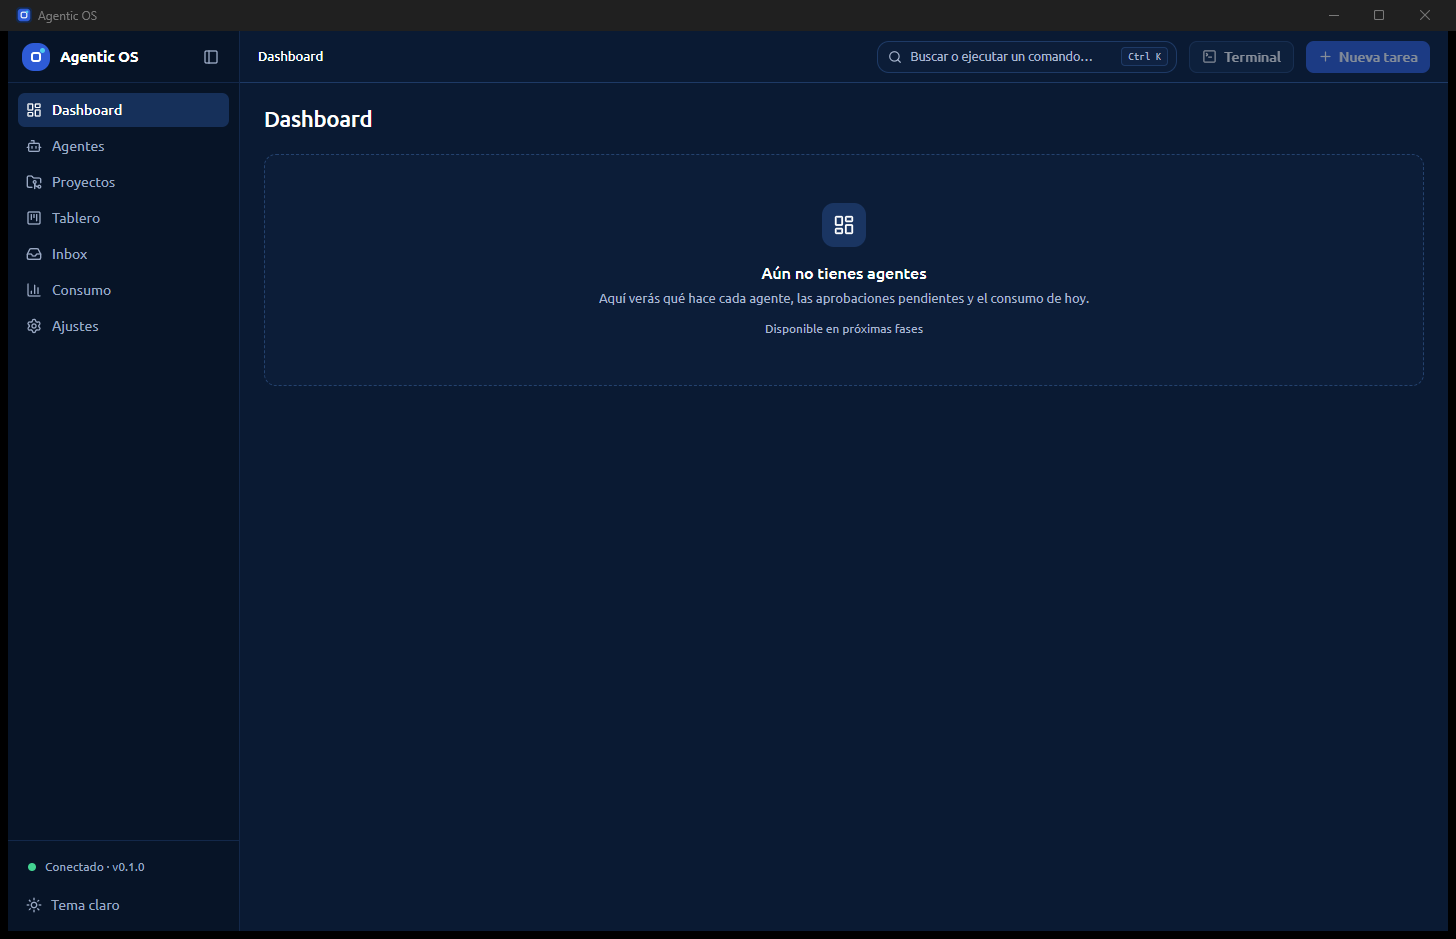
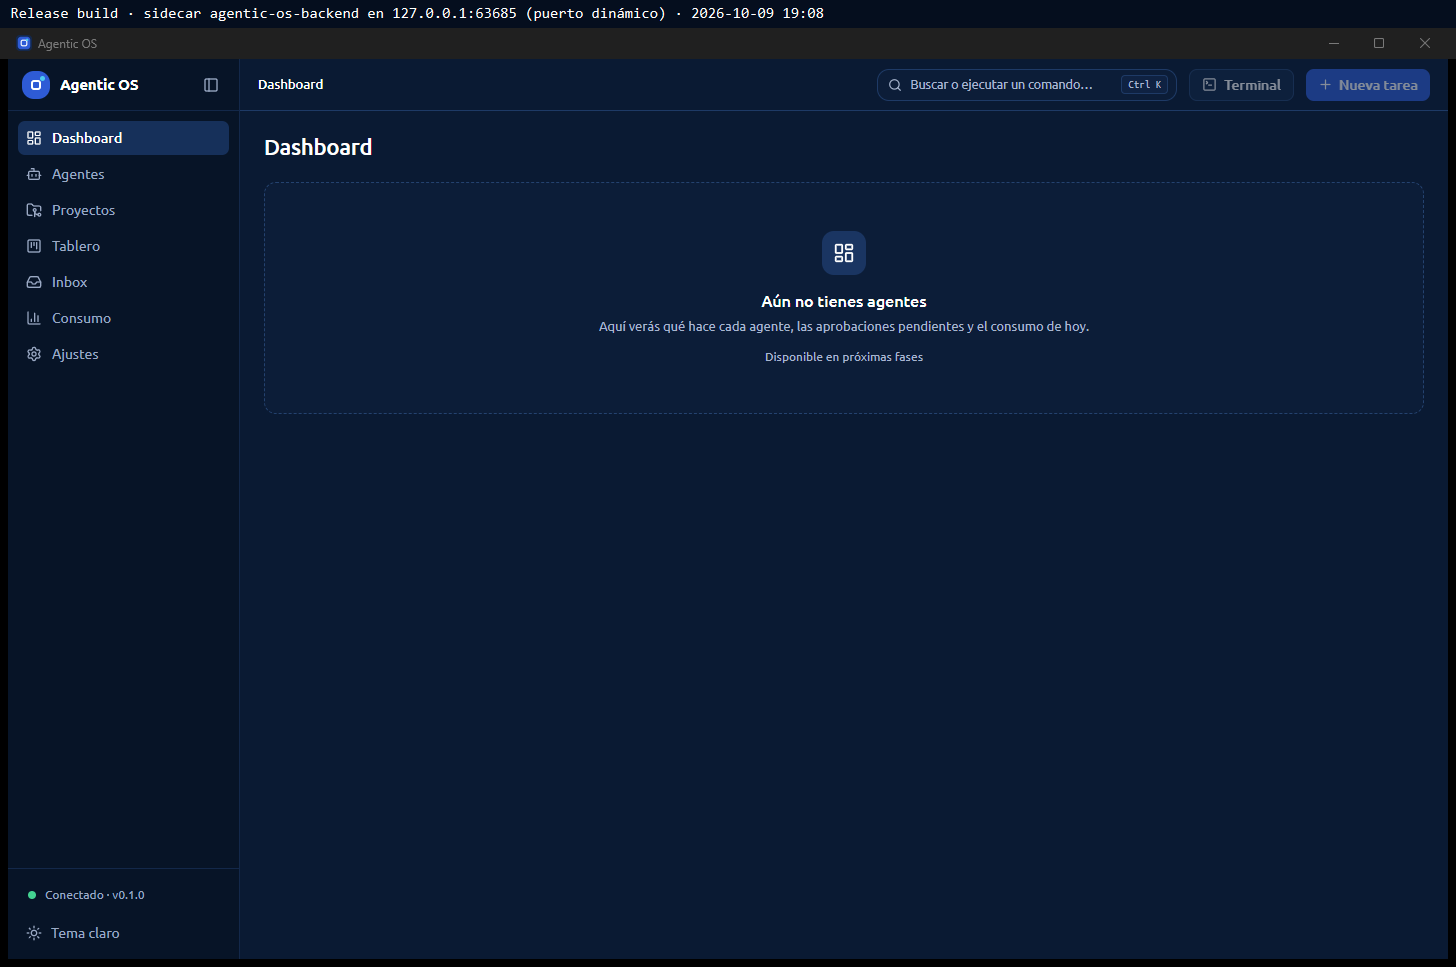
docs(phase-00): validation with code review resolution and new CA6 evidence; update ADR 0002

diff --git a/docs/phases/00-fundaciones/validacion.md b/docs/phases/00-fundaciones/validacion.md
@@ -1,20 +1,20 @@
 # Fase 00: Fundaciones · Validación
 
 - **Rama**: `phase/00-fundaciones`
-- **Fecha**: 2026-10-08
+- **Fecha**: 2026-10-08 · actualizada 2026-10-09 tras el code review
 
 ## Tests automáticos
 `scripts/check.ps1` (lint + todos los tests):
 
 ```
-Paso                            Resultado
-----                            ---------
+Step                            Result
+----                            ------
 Lint backend (ruff)             OK
 Lint frontend (eslint+prettier) OK
 Lint desktop (rustfmt)          OK
-Tests backend (pytest)          OK   8 passed
-Tests frontend (vitest)         OK   12 passed (4 files)
-Tests desktop (cargo test)      OK   2 passed
+Tests backend (pytest)          OK   10 passed
+Tests frontend (vitest)         OK   14 passed (4 files)
+Tests desktop (cargo test)      OK   3 passed
 ```
 
 ## Criterios de aceptación
@@ -25,7 +25,7 @@ Tests desktop (cargo test)      OK   2 passed
 | CA3 | Barra lateral con 7 secciones, navegación y textos desde `es.json` | ✅ | `AppSidebar.test.tsx` (7 enlaces con textos de `es.json`, navegación, ítem activo, ruta desconocida → Dashboard). ESLint `i18next/no-literal-string` (texto JSX) en verde |
 | CA4 | Tema claro/oscuro (navy por defecto), se recuerda; fuente Ubuntu en local | ✅ | `ThemeProvider.test.tsx` (navy por defecto, cambio a claro, persistencia, restauración). Fuentes con `@fontsource`, sin peticiones a Google Fonts. Comparada con la captura `01a` del diseño. El tema claro está cubierto por tests; falta la revisión visual |
 | CA5 | `npm run dev:desktop` abre la ventana Tauri conectada | ✅ | [`evidencias/ca5-dev-desktop.png`](evidencias/ca5-dev-desktop.png): ventana «Agentic OS» con «Conectado · v0.1.0» |
-| CA6 | `npm run build:desktop` → el ejecutable arranca el sidecar en un puerto libre, conecta, y lo para al cerrar sin huérfanos | ✅ | Instalador NSIS `Agentic OS_0.1.0_x64-setup.exe` (17,3 MB); sidecar de 14,4 MB, listo en 1,12 s. [`evidencias/ca6-release-sidecar.png`](evidencias/ca6-release-sidecar.png): «Conectado» con puerto dinámico (61868). Cierre normal → 0 procesos del backend en 1,6 s; Tauri matado a la fuerza → 0 en 1,9 s. Tests `test_main.py` (handshake, watchdog, pipes rotos) y `cargo test` (`parse_ready`) |
+| CA6 | `npm run build:desktop` → el ejecutable arranca el sidecar en un puerto libre, conecta, y lo para al cerrar sin huérfanos | ✅ | Instalador NSIS `Agentic OS_0.1.0_x64-setup.exe` (17,3 MB); sidecar de 14,4 MB, listo en 1,12 s. [`evidencias/ca6-release-sidecar.png`](evidencias/ca6-release-sidecar.png): build release con «Conectado» y el sidecar en 127.0.0.1:63685. [`evidencias/ca6-release.log`](evidencias/ca6-release.log): árbol de procesos (Tauri → bootloader → Python con `--parent-pid`), puerto dinámico y health. Cierre normal → 0 procesos del backend en 1,7 s; Tauri terminado a la fuerza → 0 en 1,7 s; en ambos casos la carpeta `_MEI*` de `%TEMP%` desaparece y el log de uvicorn registra `Application shutdown complete`. Tests `test_main.py` (handshake, watchdog, pipes rotos), `test_logging.py` y `cargo test` |
 | CA7 | `check` ejecuta ruff, ESLint, Prettier, pytest y vitest en verde | ✅ | Salida de arriba; también incluye rustfmt y cargo test |
 | CA8 | README con requisitos y comandos; roadmap actualizado | ✅ | [`README.md`](../../../README.md), [`roadmap.md`](../../roadmap.md) |
 
@@ -34,10 +34,20 @@ Tests desktop (cargo test)      OK   2 passed
 
 | Hallazgo | Severidad | Resolución |
 |---|---|---|
-| _(pendiente del resultado)_ | | |
+| Tauri mataba el bootloader de PyInstaller y quedaban carpetas `_MEI*` en `%TEMP%` (confirmado: 3 restos) | Alta | **Corregido**: Tauri ya no mata el sidecar; el watchdog lo cierra de forma ordenada y el bootloader limpia (verificado en CA6) |
+| Si el sidecar no arrancaba, `setup` fallaba y la app release se cerraba sin mensaje | Alta | **Corregido**: el error se guarda y `backend_url` lo devuelve a la UI; test `failure_clears_url_and_is_not_starting` |
+| La UI reintentaba 30 s también ante errores definitivos | Media | **Corregido**: solo reintenta con `starting`; test `fails fast on a permanent backend error`. El reinicio automático del sidecar queda para la fase 08 |
+| La captura de CA6 era idéntica byte a byte a la de CA5 | Media | **Corregido**: captura nueva de la build release con el puerto anotado, más `ca6-release.log` |
+| El stderr del sidecar se descartaba y no había logs en la app empaquetada | Media | **Corregido**: logs rotativos en `%APPDATA%\AgenticOS\logs\backend.log`; structlog y uvicorn comparten handlers; test `test_logging.py` |
+| El health check no tenía timeout: un backend colgado seguía apareciendo como «Conectado» | Media | **Corregido**: `AbortSignal.timeout(4000)`; test `treats a backend that never answers as disconnected` |
+| El watchdog sondeaba por PID: si el PID se reutilizaba, el backend quedaba huérfano | Media | **Corregido**: en Windows abre el handle del padre al arrancar y espera con `WaitForSingleObject` (inmediato, sin carrera) |
+| Dependencia npm `cn` de terceros | Media | **Corregido**, pero el diagnóstico estaba mal: el CLI de shadcn había generado `import { cn } from 'cn'` en los componentes, así que el paquete sí se usaba. Se cambiaron los imports a `@/lib/utils` y se eliminó el paquete |
+| Identificadores en español en `check.ps1` | Baja | **Corregido**: `Step` / `Result` / `FAILED` |
+| En modo `--reload` no había logging configurado en el proceso hijo | Baja | **Corregido**: factory `create_dev_app` que configura el logging |
 
 ## Incidencias encontradas durante el desarrollo
 - **Backend huérfano tras cerrar la app (corregido)**: con PyInstaller `--onefile`, el intérprete de Python es un nieto de Tauri. Al morir Tauri, los pipes de stdout/stderr se rompen y el watchdog fallaba al escribir un log *antes* de pedir el apagado, así que el proceso quedaba vivo. Corrección: primero se pide el apagado, el log va dentro de un `suppress` y, si el proceso sigue vivo tras 5 s de gracia, se fuerza `os._exit`. Test de regresión: `test_exits_when_parent_dies_and_its_pipes_are_closed`.
+- **Imports de shadcn desde el paquete `cn` (corregido)**: el CLI de shadcn 4 generó `import { cn } from 'cn'` en lugar del alias local; se detectó al revisar el hallazgo del code review.
 - **Configuración de pytest ignorada desde la raíz (corregido)**: `npm run test:backend` pasa ahora `backend` como ruta para que pytest lea `backend/pyproject.toml`.
 
 ## Retro
@@ -48,13 +58,17 @@ Tests desktop (cargo test)      OK   2 passed
 - **`externalBin` solo en release** (`tauri.release.conf.json`): Tauri exige que el binario exista al compilar, y así `dev:desktop` no depende de construir el sidecar.
 - **Rust en el `check`**: se añadieron `rustfmt --check` y `cargo test`.
 - **`logging.py` → `logging_setup.py`**, para no confundirlo con el módulo estándar.
-- **`httpx` se mantiene** para el `TestClient`. Starlette recomienda `httpx2`, pero su instalación quedó bloqueada por la política de permisos de la sesión; se filtra el aviso de deprecación y queda pendiente de decisión del usuario.
+- **`httpx` se mantiene** para el `TestClient` (solo tests). Starlette recomienda `httpx2` y avisa de que `httpx` está deprecado. Decisión: no cambiarlo por ahora (aviso filtrado en `pyproject.toml`); se migrará cuando Starlette deje de aceptar `httpx`.
+- **Tauri ya no mata el sidecar al salir** (cambio respecto al plan): lo cierra el watchdog, para que PyInstaller limpie su carpeta temporal. Documentado en el ADR 0002.
+- **Logs a archivo en la app empaquetada**: no estaban en el plan; se añadieron a raíz del code review.
 
 ### Impacto en fases futuras
 - **Rutas del navegador en Tauri**: la navegación dentro de la app funciona. Falta comprobar a mano que recargar (F5) en una subruta como `/agentes` no da 404 en la build de release (Tauri debería devolver `index.html`). Si falla, se cambia a hash router.
 - **Tamaño del bundle del frontend**: 590 kB, con aviso de Vite. Se resolverá con code-splitting por ruta cuando haya pantallas reales (fase 02 o siguientes).
 - **Ventana de consola del sidecar**: no se ha visto ninguna durante las pruebas (tauri-plugin-shell lanza con `CREATE_NO_WINDOW`); conviene confirmarlo instalando el NSIS en la fase 08.
 - **Antivirus y firma de código**: pendiente para la fase 08.
+- **Reinicio automático del sidecar** si se cae: fase 08.
+- **Migración `httpx` → `httpx2`** en los tests: cuando Starlette deje de aceptar `httpx`.
 
 ## Cierre
 - [ ] OK del usuario

diff --git a/docs/adr/0002-sidecar-protocol.md b/docs/adr/0002-sidecar-protocol.md
@@ -15,16 +15,17 @@ La app de escritorio (Tauri) arranca el backend FastAPI empaquetado con PyInstal
    `AGENTIC_OS_READY {"port": N}`.
    Tauri lee el stdout del sidecar, interpreta esa línea y guarda `http://127.0.0.1:N`.
 3. **Descubrimiento desde la UI**: el comando Tauri `backend_url` devuelve la URL o el error `starting`; el frontend reintenta cada 250 ms durante un máximo de 30 s. En desarrollo (build debug) Tauri no lanza el sidecar y devuelve `AGENTIC_OS_BACKEND_URL` o `http://127.0.0.1:8765`.
-4. **Sin huérfanos, doble protección**:
-   - Tauri mata el proceso hijo en `RunEvent::Exit`.
-   - El backend recibe `--parent-pid <pid de Tauri>` y un hilo *watchdog* comprueba cada 2 s si ese proceso sigue vivo; si ha muerto, apaga el servidor. Esto cubre los cierres bruscos de Tauri y el caso del ejecutable `--onefile` de PyInstaller, donde el proceso que Tauri mata es el bootloader y el intérprete de Python es un nieto.
-5. **Permisos mínimos**: el sidecar se lanza desde Rust, así que la UI no recibe ningún permiso `shell:*` (capability `core:default` únicamente).
+4. **Sin huérfanos, sin matar el sidecar**: el backend recibe `--parent-pid <pid de Tauri>` y un hilo *watchdog* espera a que ese proceso termine. En Windows abre el handle del proceso al arrancar y bloquea en `WaitForSingleObject`: la detección es inmediata y no puede confundirse si Windows reutiliza el PID. En otros sistemas sondea cada 2 s. Cuando el padre muere, el backend pide el apagado ordenado y, si a los 5 s sigue vivo, fuerza la salida con `os._exit`. **Tauri no mata el sidecar al salir**: hacerlo terminaría el bootloader de PyInstaller `--onefile` antes de que borrase su carpeta de extracción `_MEI*` en `%TEMP%`. El watchdog cubre el cierre normal y el forzado.
+5. **Errores de arranque visibles**: si el sidecar no se puede lanzar o termina, Tauri guarda el error y `backend_url` lo devuelve. La UI solo reintenta mientras el error es `starting`; cualquier otro error es definitivo y se muestra al momento. La app no se cae.
+6. **Logs a archivo**: el ejecutable empaquetado escribe sus logs en `%APPDATA%\AgenticOS\logs\backend.log` (rotativo, 5 MB × 3), porque Tauri no conserva el stderr del sidecar.
+7. **Permisos mínimos**: el sidecar se lanza desde Rust, así que la UI no recibe ningún permiso `shell:*` (capability `core:default` únicamente).
 
 ## Consecuencias
 - ✅ No hay puertos fijos ni conflictos, y varias instancias pueden convivir.
 - ✅ El backend se cierra con la app en todos los casos (verificado en la validación de la fase 00).
-- ⚠ El backend no debe escribir en stdout antes de la línea `AGENTIC_OS_READY`, salvo líneas que Tauri ignora. Los logs van a stderr.
-- ⚠ Al cerrar de forma brusca puede haber hasta 2 s de retraso hasta que el watchdog cierre el backend.
+- ⚠ El backend no debe escribir en stdout antes de la línea `AGENTIC_OS_READY`, salvo líneas que Tauri ignora. Los logs van a stderr y al archivo de log.
+- ✅ La carpeta temporal de PyInstaller se limpia en cada cierre, tanto normal como forzado.
+- ⚠ El sidecar no se reinicia si se cae: el botón «Reintentar» solo vuelve a consultar. El reinicio automático queda para la fase 08 (robustez).
 
 ## Alternativas descartadas
 - **Puerto fijo**: choques con otros procesos y con una segunda instancia.
